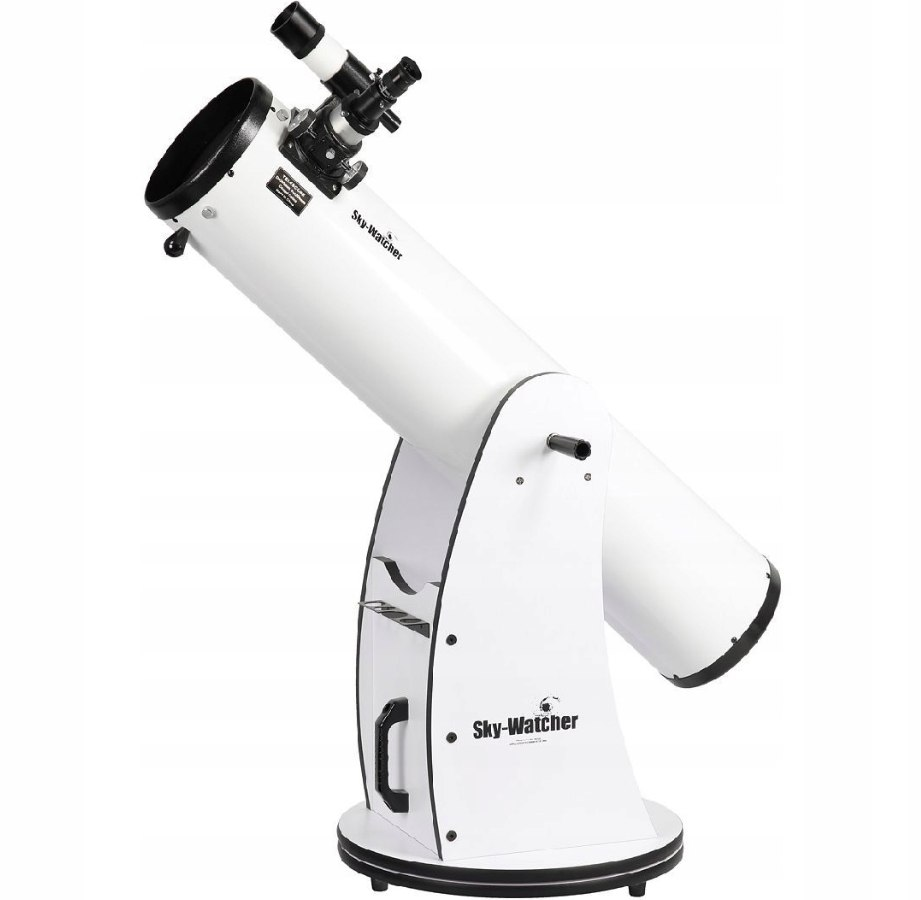
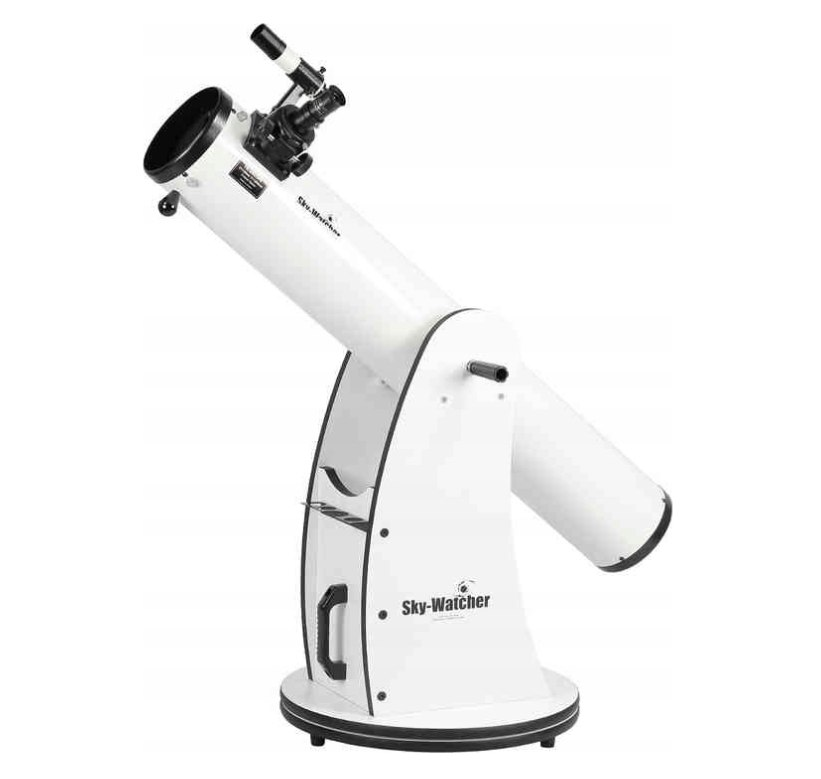
Teleskopy: prawidłowe zdjęcia Dobsonów 6 i 8

Changed region(s): [[0.1523, 0.0, 0.7613, 1.0], [0.609, 0.5854, 0.8526, 0.7702]]

diff --git a/_posts/2026-11-12-startravel-mak-dobson.md b/_posts/2026-11-12-startravel-mak-dobson.md
@@ -49,13 +49,13 @@ Dobson to teleskop Newtona na prostym, skrzynkowym montażu. Nie trzeba go ustaw
 
 ### Sky-Watcher Dobson 6 (150/1200)
 
-{% include zdjecie.html plik="dobson6.jpg" podpis="Klasyczny Dobson Sky-Watcher. Na zdjęciu wersja 8-calowa, szóstka wygląda tak samo, tylko jest mniejsza." %}
+{% include zdjecie.html plik="dobson6.jpg" podpis="Sky-Watcher Dobson 6 cali (150/1200)" %}
 
 Jest tańszy i łatwiejszy w obsłudze. Dobrze radzi sobie z Księżycem, planetami i jaśniejszymi obiektami głębokiego nieba. Całość waży około 18 kg. Cena: ok. 1230 zł.
 
 ### Sky-Watcher Dobson 8 (200/1200)
 
-{% include zdjecie.html plik="dobson8.jpg" podpis="Dobson Sky-Watcher w wersji składanej (Flextube), na zdjęciu 10 cali." %}
+{% include zdjecie.html plik="dobson8.jpg" podpis="Sky-Watcher Dobson 8 cali (200/1200)" %}
 
 Zbiera około 1,8 raza więcej światła niż szóstka. Pokazuje więcej mgławic i galaktyk oraz więcej szczegółów na planetach. Jest za to cięższy i większy, więc trudniejszy do przenoszenia. Cena: ok. 1800 do 2100 zł.
 
